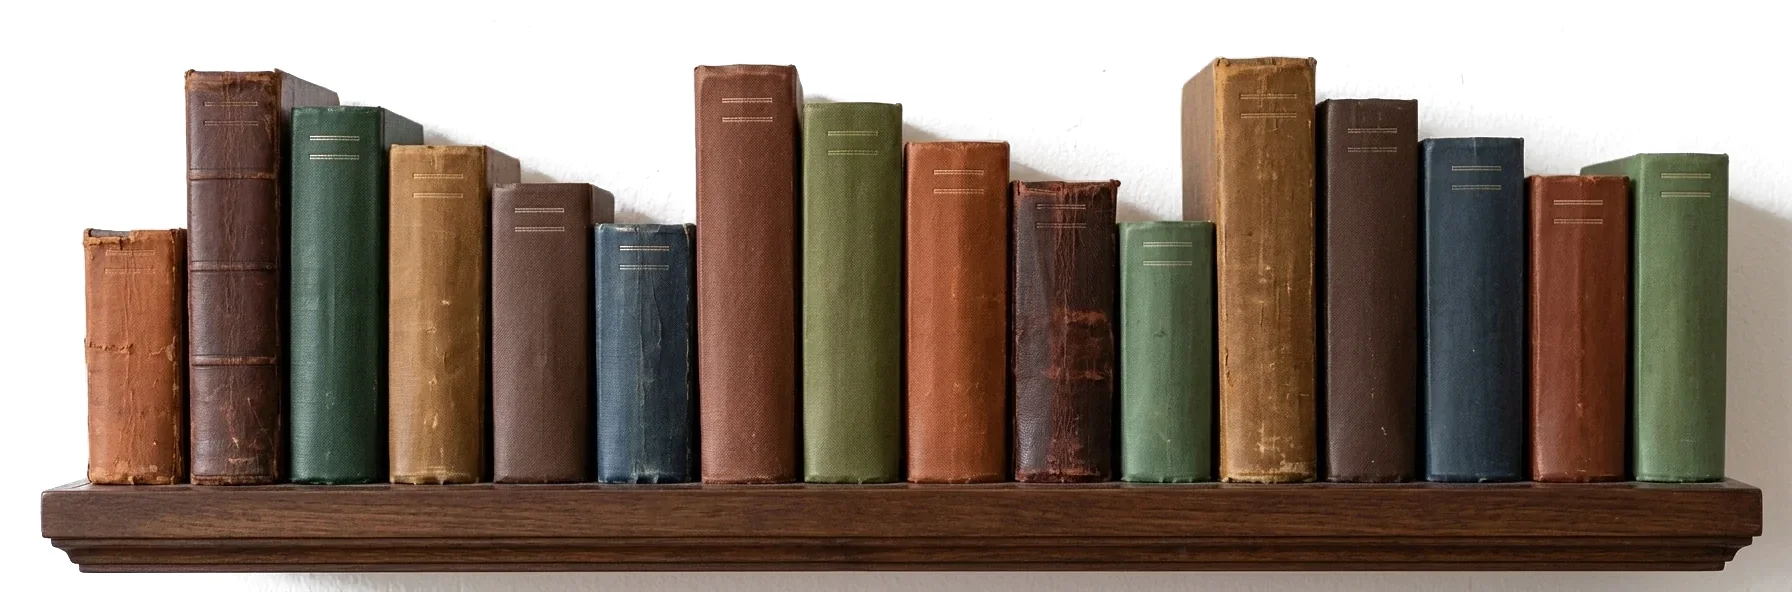
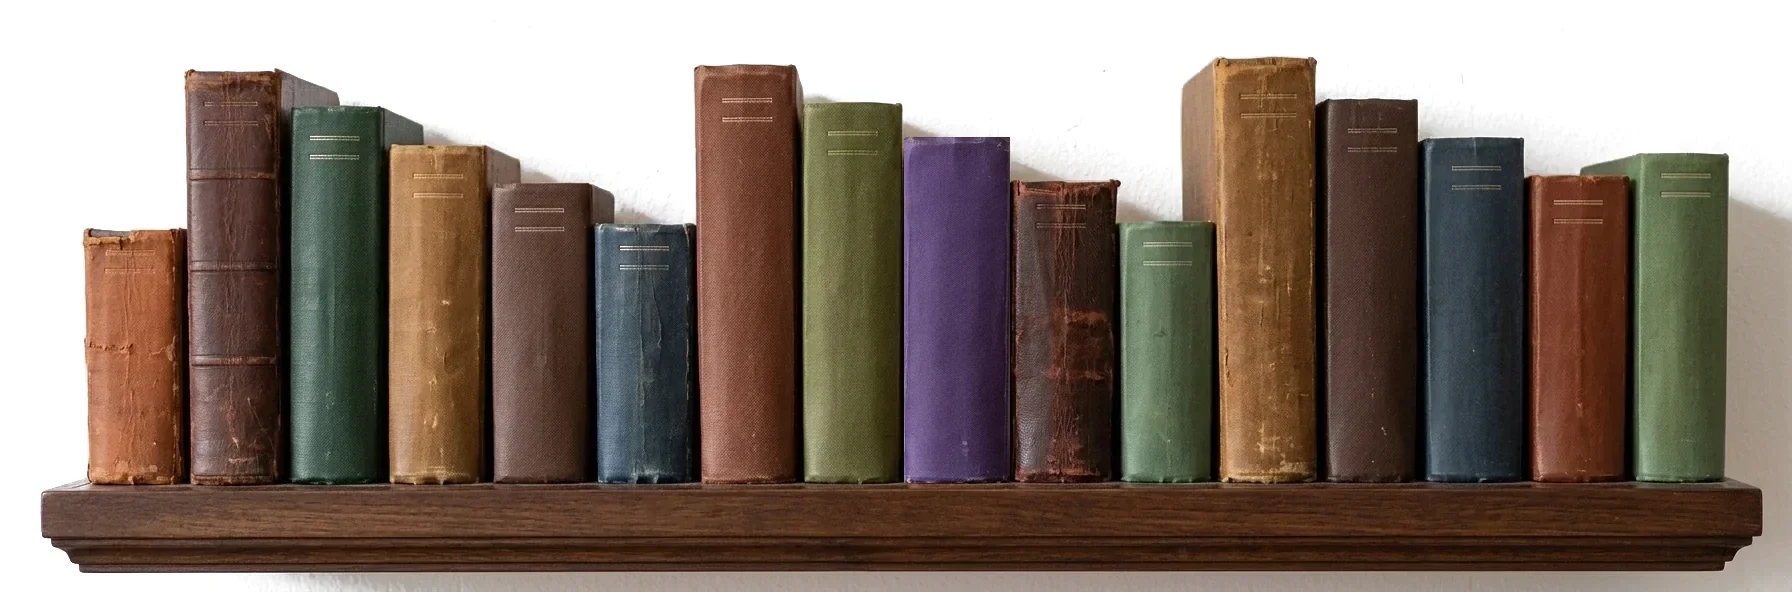
Libro morado de El Nido en la estantería (lomo de la foto nueva); en la intro el libro se convierte en ese lomo al aterrizar

Changed region(s): [[0.5, 0.2128, 0.5625, 0.8209]]

diff --git a/script.js b/script.js
@@ -276,8 +276,9 @@
       [[290, 107], [385, 107], [422, 122], [422, 145], [390, 145], [390, B], [290, B]],
       [[390, 145], [487, 145], [518, 158], [518, 183], [493, 183], [493, B], [390, B]],
       [[493, 183], [592, 183], [615, 193], [615, 223], [597, 223], [597, B], [493, B]],
+      // el 8 es el lomo morado de El Nido, donde aterriza el libro de la intro
       rect(597, 695, 223), rect(695, 800, 65), rect(803, 900, 102),
-      rect(905, 1007, 140), rect(1012, 1117, 180), rect(1120, 1215, 220),
+      rect(904, 1010, 137), rect(1012, 1117, 180), rect(1120, 1215, 220),
       [[1183, 80], [1218, 57], [1316, 57], [1316, B], [1218, B], [1218, 220], [1183, 220]],
       rect(1318, 1416, 98), rect(1422, 1524, 138), rect(1527, 1630, 175),
       [[1580, 167], [1633, 153], [1728, 153], [1728, B], [1633, B], [1633, 175], [1580, 175]]
@@ -696,7 +697,6 @@
       destino = elegirDestino();
       if (!destino) return;
       if (destino.classList.contains('lomo')) {
-        destino.style.setProperty('--tono', '#6a45a0');
         destino.style.visibility = 'hidden';
         var r = destino.getBoundingClientRect();
         if (r.top < 80 || r.bottom > window.innerHeight - 20) {

diff --git a/styles.css b/styles.css
@@ -1128,18 +1128,19 @@ html.intro-montada::before { display: none; }
   overflow: hidden;
 }
 .intro__mover img { display: block; width: 100%; height: 100%; }
-/* Camino de la estantería la portada se vuelve un lomo liso */
+/* Camino de la estantería la portada se convierte en el lomo morado que
+   espera en la foto de la estantería (img/intro/lomo.webp) */
 .intro__mover::after {
   content: "";
   position: absolute;
   inset: 0;
-  background: #6a45a0;
+  background: #5b3f8c url("img/intro/lomo.webp") center / 100% 100% no-repeat;
   opacity: 0;
 }
 .intro[data-fase="cierra"] .intro__mover,
 .intro[data-fase="guarda"] .intro__mover { visibility: visible; }
 .intro[data-fase="guarda"] .intro__mover { box-shadow: 0 14px 30px rgba(0, 0, 0, .3); }
-.intro[data-destino="lomo"][data-fase="guarda"] .intro__mover::after { opacity: 1; transition: opacity .55s ease .2s; }
+.intro[data-destino="lomo"][data-fase="guarda"] .intro__mover::after { opacity: 1; transition: opacity .5s ease .15s; }
 
 /* Fase: guarda. Fondo y vídeo se funden y dejan ver la web */
 .intro[data-fase="guarda"]::before,
